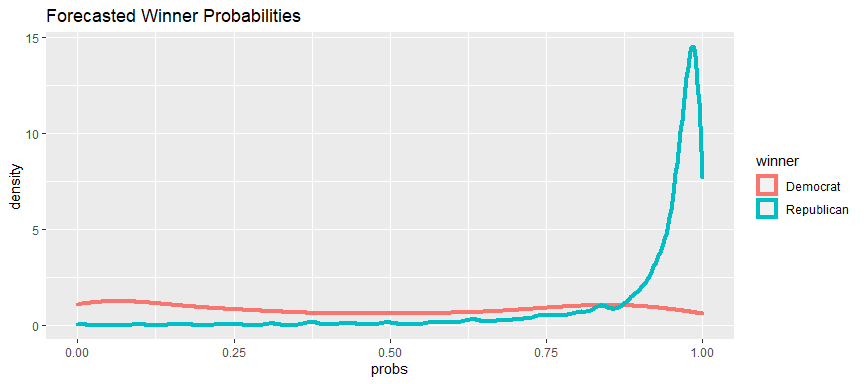
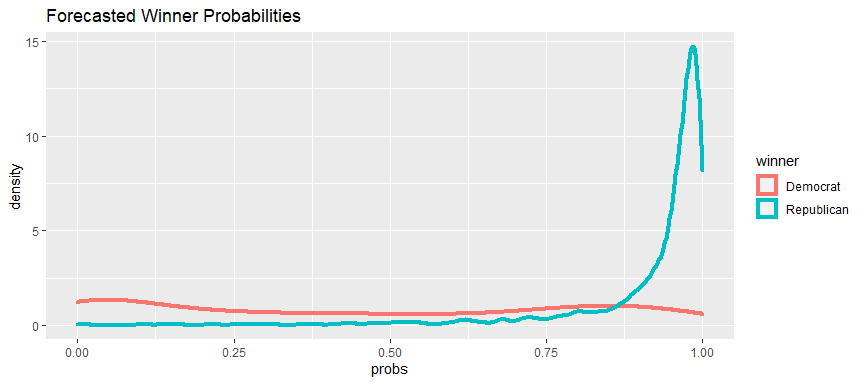
Added some variable to increase Democrat recall

diff --git a/Abizer.md b/Abizer.md
@@ -21,57 +21,72 @@ create our model. We ran a regression analysis with the 51 predictor
 variables and deciphered that 17 of them were significant. However, we
 wanted to avoid overfitting hence we ran a regression analysis with
 these 17 variables against the winner variable and chose only those
-variables that had a significance level less than 0.0001. We were also
-concerned that some of these variables might be correlated to each other
-which might be affecting their significance level. To examine this, we
-ran a individual regression analysis for each variable against the
-winner variable and chose the ones that were still significant. After
-doing this procedure, we concluded that retail sales, income/capita,
-median house value, percentage of population living in multi unit
-housing, languages other English spoken at home, percentage of
-population who have completed undergraduate degree or higher, percentage
-of population living in same housing for multiple years and percentage
-change in population are significant.
+variables that were significant. We were also concerned that some of
+these variables might be correlated to each other which might be
+affecting their significance level. To examine this, we ran a individual
+regression analysis for each variable against the winner variable and
+chose the ones that were still significant. After doing this procedure,
+we concluded that retail sales, income/capita, median house value,
+percentage of population living in multi unit housing, languages other
+English spoken at home, percentage of population who have completed
+undergraduate degree or higher, percentage of population living in same
+housing for multiple years and percentage change in population,
+Persons/Household, Land Area, Non-Employer Establishments, Hispanic
+Owned Firms, Accommodation/Food Sales and Building Permits are
+significant.
 
+    Warning: glm.fit: fitted probabilities numerically 0 or 1 occurred
 
     Call:
     glm(formula = myform, family = binomial, data = train_final)
 
     Deviance Residuals: 
         Min       1Q   Median       3Q      Max  
-    -3.0933   0.1303   0.2326   0.3772   3.5282  
+    -3.1030   0.1233   0.2278   0.3712   3.3573  
 
     Coefficients:
                                                   Estimate Std. Error z value
-    (Intercept)                                  1.222e+01  1.898e+00   6.437
-    Retail_Sales_07                             -1.269e-07  3.098e-08  -4.096
-    Income_per_capita                            3.667e-04  3.104e-05  11.816
-    Median_house_value                          -1.412e-05  1.785e-06  -7.914
-    Percent_multi_unit_housing                  -1.205e-01  1.284e-02  -9.380
-    Spoken_non_english_lang                     -4.910e-02  6.285e-03  -7.813
-    Percent_Undergrad                           -1.831e-01  1.736e-02 -10.543
-    Percent_living_in_same_house_multiple_years -1.243e-01  2.182e-02  -5.694
-    percent_change_in_pop                        1.713e-01  2.512e-02   6.818
+    (Intercept)                                  1.252e+01  2.134e+00   5.867
+    Retail_Sales_07                              6.890e-08  1.117e-07   0.617
+    Income_per_capita                            3.748e-04  3.394e-05  11.042
+    Median_house_value                          -1.434e-05  1.946e-06  -7.369
+    Percent_multi_unit_housing                  -1.032e-01  1.380e-02  -7.482
+    Spoken_non_english_lang                     -3.329e-02  9.749e-03  -3.414
+    Percent_Undergrad                           -2.020e-01  1.805e-02 -11.191
+    Percent_living_in_same_house_multiple_years -1.113e-01  2.302e-02  -4.837
+    percent_change_in_pop                        1.957e-01  2.870e-02   6.821
+    Persons_per_Household                       -6.610e-01  4.212e-01  -1.569
+    Land_Area                                    2.457e-04  6.419e-05   3.828
+    Nonemployer_establishments                  -2.377e-06  2.296e-05  -0.104
+    Hispanic_firms                              -5.422e-02  1.551e-02  -3.497
+    Accomodation_Food_Sales                     -1.996e-06  6.223e-07  -3.207
+    Building_Permits                             2.777e-04  1.219e-04   2.279
                                                 Pr(>|z|)    
-    (Intercept)                                 1.22e-10 ***
-    Retail_Sales_07                             4.21e-05 ***
+    (Intercept)                                 4.45e-09 ***
+    Retail_Sales_07                             0.537480    
     Income_per_capita                            < 2e-16 ***
-    Median_house_value                          2.50e-15 ***
-    Percent_multi_unit_housing                   < 2e-16 ***
-    Spoken_non_english_lang                     5.58e-15 ***
+    Median_house_value                          1.72e-13 ***
+    Percent_multi_unit_housing                  7.33e-14 ***
+    Spoken_non_english_lang                     0.000639 ***
     Percent_Undergrad                            < 2e-16 ***
-    Percent_living_in_same_house_multiple_years 1.24e-08 ***
-    percent_change_in_pop                       9.23e-12 ***
+    Percent_living_in_same_house_multiple_years 1.32e-06 ***
+    percent_change_in_pop                       9.06e-12 ***
+    Persons_per_Household                       0.116558    
+    Land_Area                                   0.000129 ***
+    Nonemployer_establishments                  0.917516    
+    Hispanic_firms                              0.000471 ***
+    Accomodation_Food_Sales                     0.001340 ** 
+    Building_Permits                            0.022670 *  
     ---
     Signif. codes:  0 '***' 0.001 '**' 0.01 '*' 0.05 '.' 0.1 ' ' 1
 
     (Dispersion parameter for binomial family taken to be 1)
 
         Null deviance: 2120.3  on 2488  degrees of freedom
-    Residual deviance: 1183.0  on 2480  degrees of freedom
-    AIC: 1201
+    Residual deviance: 1142.5  on 2474  degrees of freedom
+    AIC: 1172.5
 
-    Number of Fisher Scoring iterations: 6
+    Number of Fisher Scoring iterations: 7
 
 We then fit the model “winner.glm” into the train and test data to
 create probabilities. We then set a threshold of 0.05. For example, if
@@ -79,8 +94,14 @@ the model determines the probability to be 0.1, prediction will be
 Republican or else Democrat. We then calculated the accuracy, precision
 and recall for the model. Then, we created a double density curve
 
+                
+                 Democrat Republican
+      Democrat         90        288
+      Republican        3       2108
        accuracy precision    recall
-    1 0.8750502 0.8725166 0.9985789
+    1 0.8830856 0.8797997 0.9985789
+       accuracy precision    recall
+    1 0.8830856 0.9677419 0.2380952
 
 ![](Abizer_files/figure-gfm/unnamed-chunk-5-1.png)<!-- -->
 
@@ -88,7 +109,7 @@ The double density curve indicates that most Republicans have an
 estimated probability of winning around 90%. Probability of Democrats
 winning is not defined so well but range lower than a Republican
 
-The accuracy for the logistic regression model is 0.875
+The accuracy for the logistic regression model is 0.883
 
 Here, we created a ROC curve for the training data
 
@@ -106,9 +127,18 @@ classifier.
 I calculated the error of the model using a 5-fold cross validation and
 a 0.05 threshold
 
-    [1] 0.1257533
+    Warning: glm.fit: fitted probabilities numerically 0 or 1 occurred
 
-The error is 0.126
+    Warning: glm.fit: fitted probabilities numerically 0 or 1 occurred
+
+    Warning: glm.fit: fitted probabilities numerically 0 or 1 occurred
+
+    Warning: glm.fit: fitted probabilities numerically 0 or 1 occurred
+
+    Warning: glm.fit: fitted probabilities numerically 0 or 1 occurred
+    [1] 0.119325
+
+The error is 0.119
 
 Random Forest
 
@@ -122,8 +152,14 @@ predictors to randomly select. Then we fitted the model to the training
 data, and calculated the accuracy, precision, recall and error for the
 training data predictions.
 
-      accuracy precision    recall      error
-    1 0.910004 0.9302326 0.9663667 0.08999598
+                
+                 Democrat Republican
+      Democrat        222        156
+      Republican       65       2046
+       accuracy precision    recall      error
+    1 0.9112093 0.9291553 0.9692089 0.08879068
+       accuracy precision    recall
+    1 0.9112093 0.7735192 0.5873016
 
 Our accuracy was 0.91 and error was 0.09.
 
